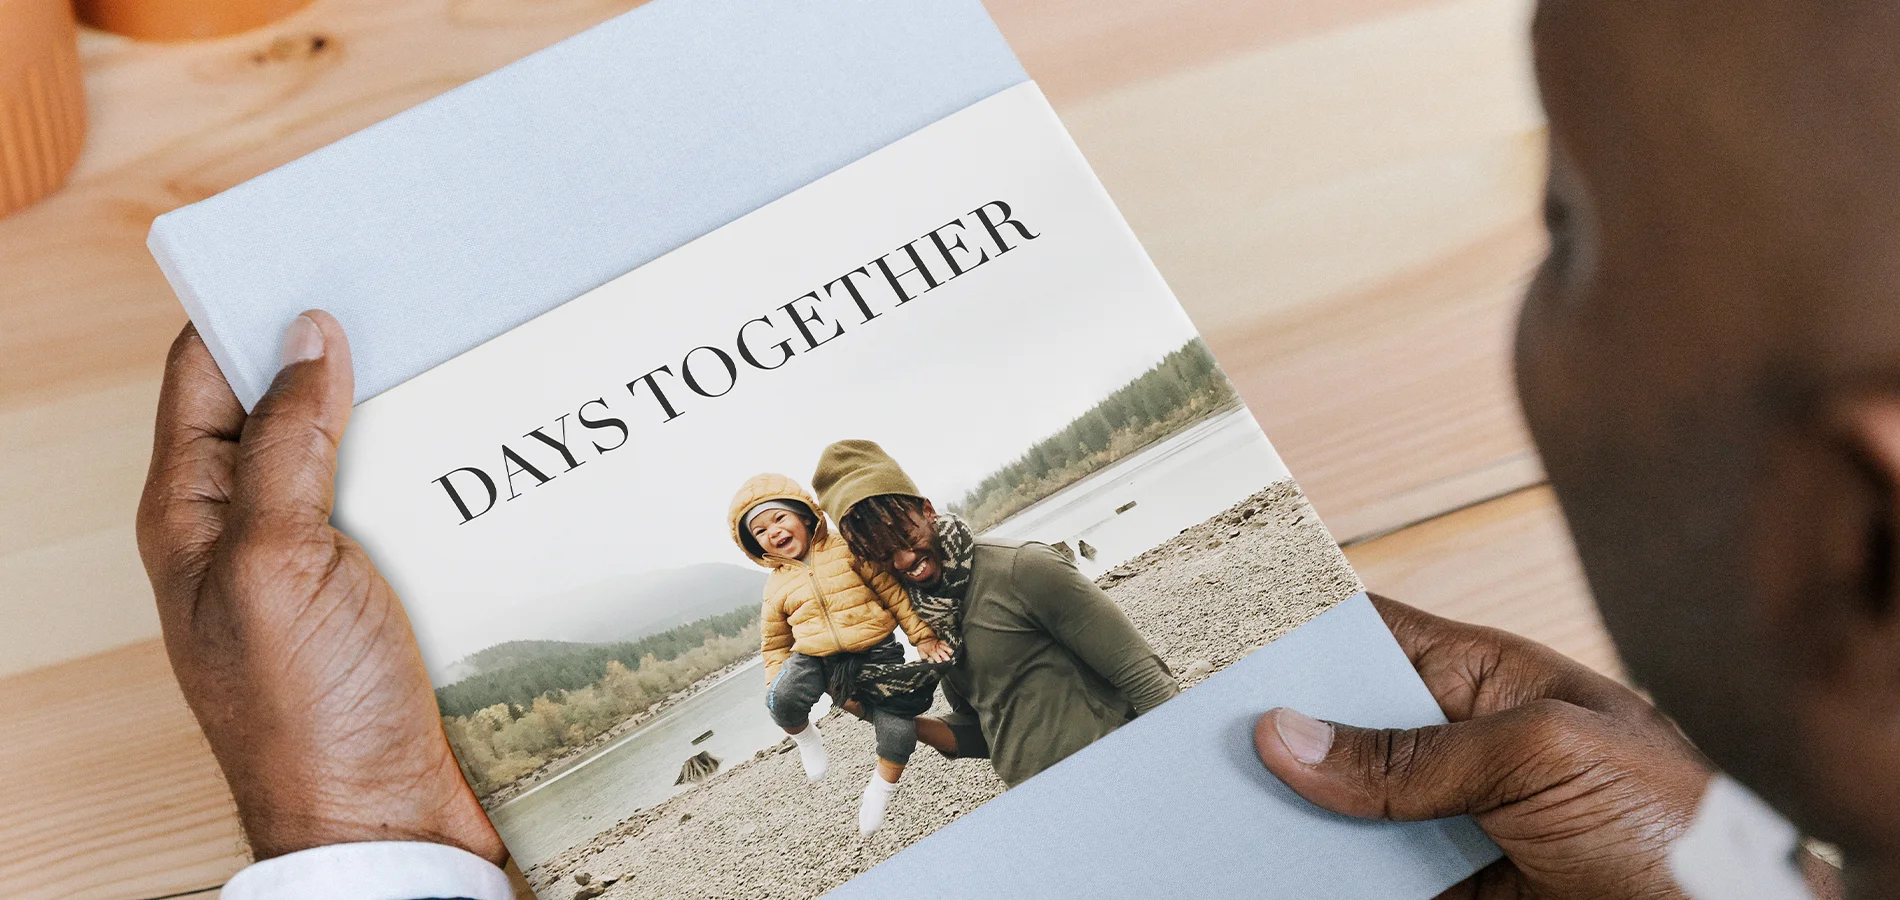
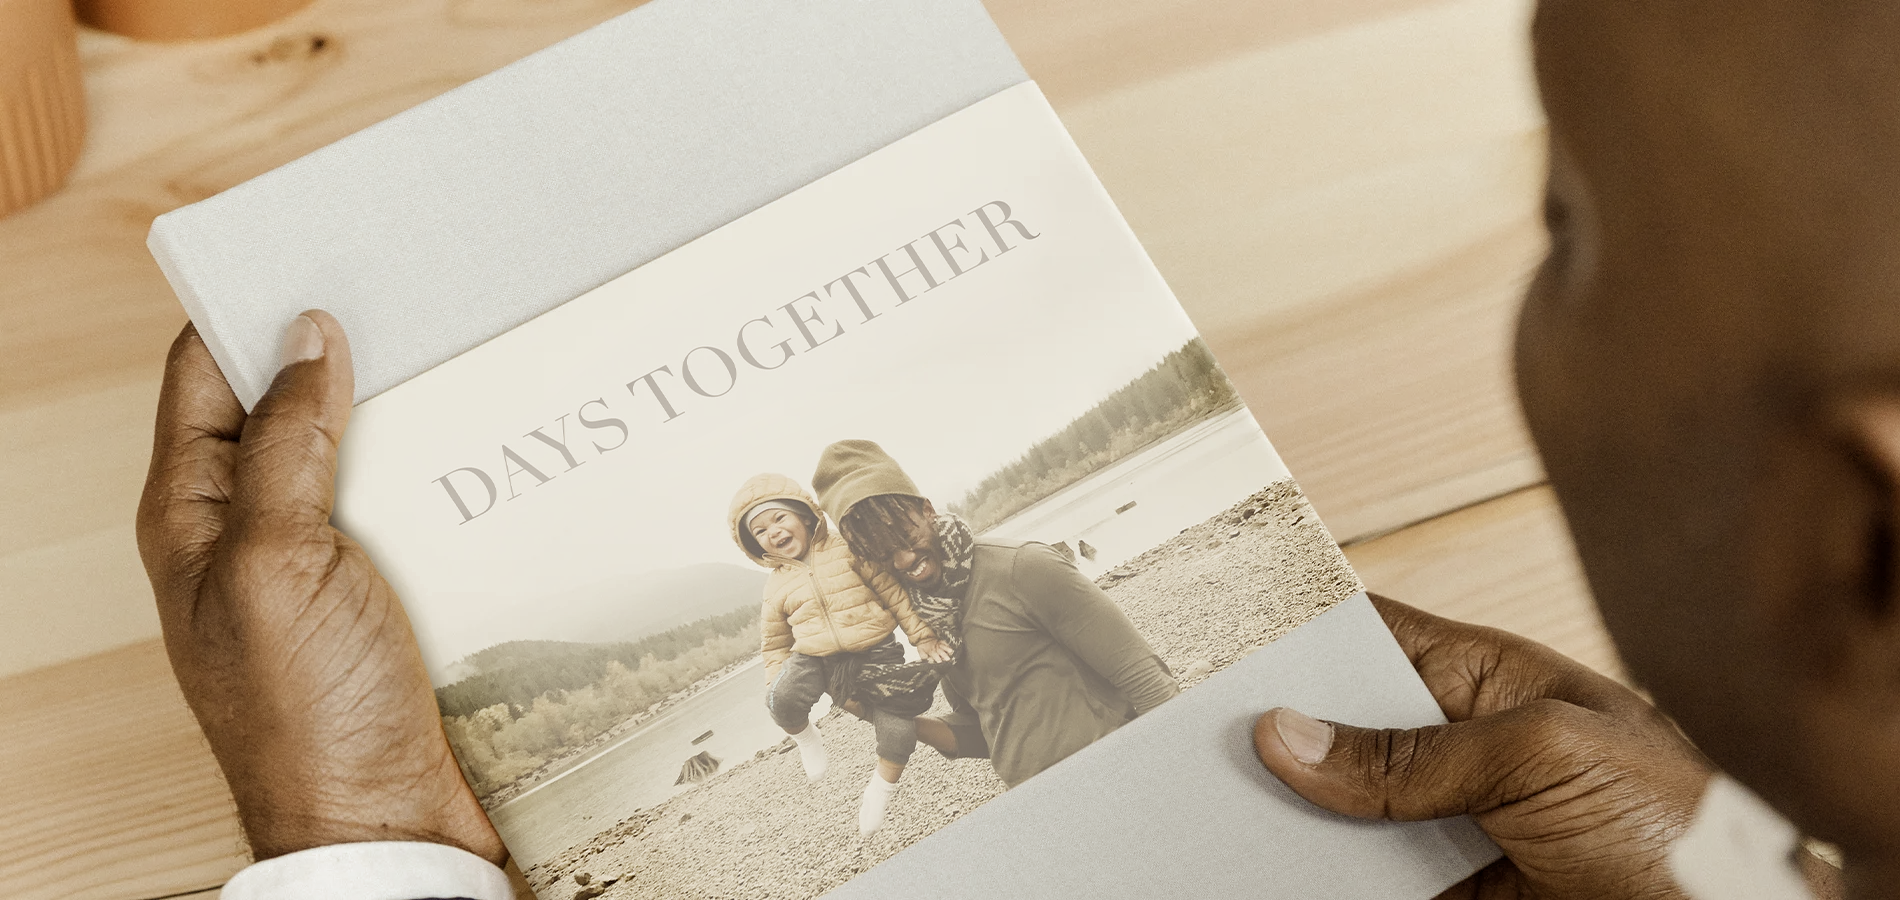
Minor background changes

diff --git a/Project/frontend/app/Profile/profile.module.css b/Project/frontend/app/Profile/profile.module.css
@@ -5,7 +5,7 @@
     justify-content: center;
     min-height: 100vh;
     font-family: 'Times New Roman';
-    background-image: url(../public/Welcome.png);
+    background-image: url(../public/Welcome2.jpg);
     background-size: cover;
     background-repeat: no-repeat;
     background-position: center;
